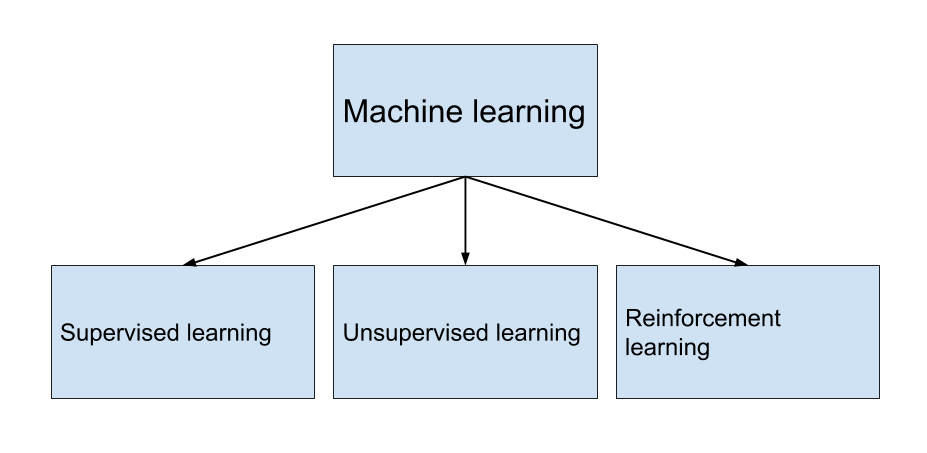
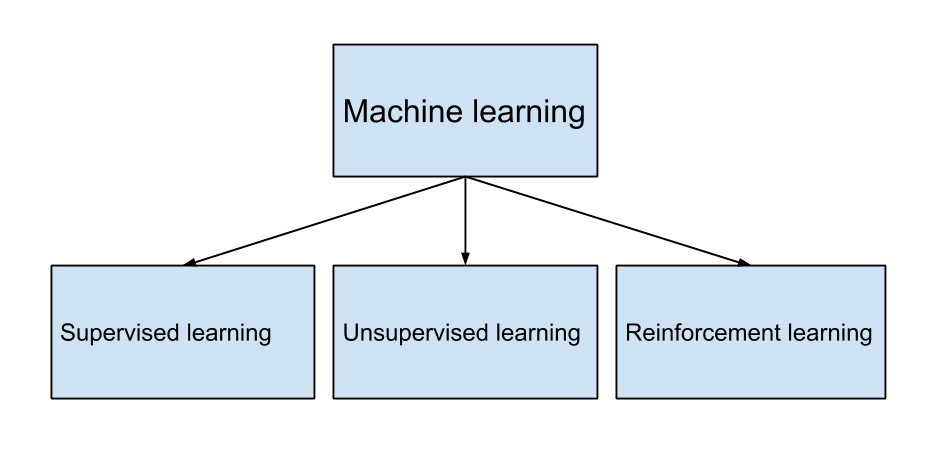
Update on Overleaf.

diff --git a/chapters/implementation.tex b/chapters/implementation.tex
@@ -10,16 +10,19 @@
 \usepackage{csquotes}
 \usepackage{amsmath}
 \usepackage{amssymb}
+\usepackage{makecell}
+
 
 \usepackage{float}
 
 
 \begin{document}
-\section{Programming software}
-Python is the programming language used for this solving this task. Python is an open-source software that has several packages for machine learning and power flow calculations \cite{python_web}. In this thesis, \textit{pandapower} is the python package used for defining an electric power system and preforming power flow calculations \cite{pandapower}. \textit{Keras} is the Python package used for training a reinforcement agent \cite{keras_chollet2015}.
+
+This chapter will introduce the Python libraries \texttt{gym}, \texttt{stable-baselines} and \texttt{pandapower} that are used for setting up the reinforcement learning algorithm and solving the power flow equations. Also, the class \texttt{ActiveEnv} developed for this thesis is presented. 
+
 
 \section{Pandapower}
-The central goal in this thesis is to keep values for current and voltage in an electrical power system within safety margins. It is therefore necessary to have a way to solve the power flow equations (\eqref{eq:theory:power_flow_equation}) and use the results to see if safety margins are violated. The tool for solving the power flow equation in this thesis is the Python package \textit{pandapower} \cite{pandapower}. They describe themselves in the following way:
+The central goal in this thesis is to keep values for current and voltage in an electrical power system within safety margins. It is therefore necessary to have a way to solve the power flow equations (\eqref{eq:theory:power_flow_equation}) and use the results to see if safety margins are violated. The tool for solving the power flow equation in this thesis is the Python package \texttt{pandapower} \cite{pandapower}. They describe themselves in the following way:
 
 \begin{displayquote}
 "pandapower builds on the data analysis library pandas and the power system analysis toolbox PYPOWER to create an easy to use network calculation program aimed at automation of analysis and optimization in power systems. What started as a convenience wrapper around PYPOWER has evolved into a stand-alone power systems analysis toolbox with extensive power system model library, an improved power flow solver and many other power systems analysis functions." \cite{pandapower_website}
@@ -30,10 +33,10 @@ Pandapower is a time independent simulation tool that finds steady state solutio
 This section will describe the different electrical elements available in pandapower and how they are physically modelled. In addition, it is shown how to take actions in the power system using the API of pandapower. It should be noted that this thesis uses version 1.6.1 of pandapower, which have some differences compared to the 2.0.1 version available at the current time of writing. For instance, the base power unit in the 1.6.1 is kilowatts, while it for the 2.0.1 is megawatts.
 
 \subsection*{Lines}
-A line element can be added and connected between two buses by using the \texttt{pandapower.create\_line} method. Pandapower offers many standard types lines for both underground cables and overhead transmission lines. Alternatively a line with costume parameters for impedance, line length, line diameter etc. can be specified with the method \texttt{pandapower.create\_line\_from\_parameters}. The lines are modelled using the $\pi$-equivalent model, described in section \ref{section:pi_model}.
+A line element can be added and connected between two buses by using the \texttt{pandapower.create\_line} method. Pandapower offers many standard types lines for both underground cables and overhead transmission lines. Alternatively a line with custom parameters for impedance, line length, line diameter etc. can be specified with the method \texttt{pandapower.create\_line\_from\_parameters}. The lines are modelled using the $\pi$-equivalent model, described in section \ref{section:pi_model}.
 
 \subsection*{Generators}
-Pandapower has two generator types. The first type is simply called generator and is modelled as a PV-bus. In other words, the active power production $P$ and voltage magnitude $|U|$ are known when solving the power flow equations. Generators can be created using the method \texttt{pandapower.create\_gen}, where nominal values for apparent power and voltage can be specified. The second type is the static generator, where the active power $P$ and reactive power $Q$ is specified (PQ-bus). Static generators are created using \texttt{pandapower.create\_sgen}. Pandapower models power from the consumer perspective, so negative values for active power $P$ corresponds to generation of power.
+Pandapower has two generator types. The first type is simply called generator and is modelled as a PV-bus. In other words, the active power production $P$ and voltage magnitude $|U|$ are known when solving the power flow equations. Generators can be created using the method \texttt{pandapower.create\_gen}, where nominal values for apparent power and voltage can be specified. The second type is the static generator, where the active power $P$ and reactive power $Q$ is specified (PQ-bus). Static generators are created using \texttt{pandapower.create\_sgen}. Pandapower models power from the consumer perspective, so negative values for active power $P$ and reactive power $Q$ correspond to generation of power.
 
 \subsection*{Loads}
 The load in pandapower is modelled as a PQ-bus, where active and reactive power are known. Loads are created using the method \texttt{pandapower.create\_load}. The loads can also be modelled with constant impedance $Z$, current $I$ and $P$. In other words, replacing reactive power with current and impedance.
@@ -72,13 +75,13 @@ All of the components will have a result table after the power flow calculation 
 \end{figure}
 
 \subsection{Plotting results}
-It is important to be able to inspect the resulting state after a reinforcement agent performs an action on the system. This can be complicated for large network with many buses and lines that each have a voltage magnitude, voltage angle and so on. Fortunately, pandapower has support for plotting both grid architecture and results from the power flow. It is possible to get static plots using matplotlib and interactive plots using plotly \cite{plotly}. Figure \ref{fig:method:oberrhein_grid_results_plotly} shows the interactive results from a power flow calculation performed on the Oberrhein power grid using plotly. The lines are coloured based on the line loading (100\% means maximum current), while the buses are coloured based on the voltage magnitude. Such plots help to get a overview of the grid and quickly identify critical areas in the transmission system. It is possible to zoom into the net since the plot is interactive, and by clicking on a line or bus you can see the values for voltage, current and power. The lines and buses are colour coded according to line capacity used and voltage magnitudes respectively. This can be used to quickly identify critical areas in the grid.
+It is important to be able to inspect the resulting state after a reinforcement agent performs an action on the system. This can be complicated for large network with many buses and lines that each have a voltage magnitude, voltage angle and so on. Fortunately, pandapower has support for plotting both grid architecture and results from the power flow. It is possible to get static plots using matplotlib and interactive plots using plotly \cite{plotly}. Figure \ref{fig:method:oberrhein_grid_results_plotly} shows the interactive results from a power flow calculation performed on the Oberrhein power grid using plotly. The lines are coloured based on the line loading (100\% means maximum current), while the buses are coloured based on the voltage magnitude. Such plots help to get a overview of the grid and quickly identify critical areas in the transmission system. It is possible to zoom into the net since the plot is interactive, and by clicking on a line or bus you can see the values for voltage, current and power.
 
 
 \begin{figure}[H]
     \center
     \includegraphics[height=15cm, width=12cm]{figures/results_pp_oberrhein.png}
-    \caption[size = 9]{Interactive plot of the results from a power flow calculation on the Oberrhein case power grid using plotly. The grid consist of 179 lines and 180 buses}
+    \caption[size = 9]{Interactive plot of the results from a power flow calculation on the Oberrhein case power grid using plotly. The grid consists of 179 lines and 180 buses}
     \label{fig:method:oberrhein_grid_results_plotly}
 \end{figure}
 
@@ -105,10 +108,45 @@ Transformers in a transmission system can have controllable taps that change the
     \label{fig:method:control_transformer}
 \end{figure}
 
-\section{Gym}
-The Python toolkit \texttt{gym} is developed by OpenAI and can be used to create reinforcement learning environments and comparing algorithms \cite{openai_gym}. It comes with thousands of predefined environments of classical video games and control theory tasks such as the cartpole, swinging pendulum etc. In addition, it is possible to construct own environments that easily can be used in reinforcement algorithms. OpenAI also has a toolkit called \texttt{baselines} with implementations of many reinforcements algorithm that can interact with \texttt{gym} environments \cite{openai_baselines}. However, the \texttt{baselines} library is currently lacking a unified code structure between the algorithms and generally have poor documentation. As a result, a fork called \texttt{stable-baseline} has been created by the AI community, that offers a major cleanup of the code, with a scikit-learn like interface \cite{stable_baselines}.
+\section{Gym, stable-baselines and ActiveEnv}
+The Python library \texttt{gym} is a toolkit used for managing environments in a reinforcement learning algorithm \cite{openai_gym}. It is developed by OpenAI and includes thousands of predefined environments of classical video games and control theory tasks such as the cartpole, swinging pendulum etc. In addition, it is possible to construct own environments that easily can be used in reinforcement algorithms. OpenAI also has a toolkit called \texttt{baselines} with implementations of many reinforcements algorithm that can interact with \texttt{gym} environments \cite{openai_baselines}. However, the \texttt{baselines} library is currently lacking a unified code structure between the algorithms and generally have poor documentation. As a result, a fork called \texttt{stable-baseline} has been created by the AI community, that offers a major cleanup of the code, with a scikit-learn like interface \cite{stable_baselines}.
 
 The implementation of the reinforcement algorithm in this thesis is done by using \texttt{gym} and \texttt{stable-baselines}. Specifically, an environment class called \texttt{ActiveEnv} is implemented, that follows the standard \texttt{gym} environment structure. The main job \texttt{ActiveEnv} is to take in an action chosen by a reinforcement algorithm, perform that action, find the consequent state resulting from that action, and calculate the reward. Specifically, \texttt{ActiveEnv} receives an action vector $a$ where each component determines the percentage change in power consumption at each flexible load. First the consumption and production of power at nodes in the net are changed according to the demand forecast and solar forecast, respectively. The action vector is then processed and updates the power production at each load in the \texttt{pandapower} net. The power flow equations for the network are then solved using \texttt{pandapower}. Once the power flow equation have been solved, and the new voltage and current magnitudes in the net are determined, the reward can be calculated. This summarises the steps involved with one action in the reinforcement algorithm. A more detailed description can be found in \ref{section:problem_description}.   
+
+There are many possible ways of constructing the reward function and state space, as discussed in \ref{chap:prob_description}. The \texttt{ActiveEnv} has a set parameter method that can be to specify the setup of the reinforcement learning algorithm, in addition to several parameters. Table \ref{table:implementation:param_description} gives a description of all the parameters together with their default values.  
+
+
+{
+\renewcommand{\arraystretch}{1.5}
+\begin{table}[ht]
+\center
+\begin{tabular}{lll}
+Parameter name     & Value                                                & Description                                                  \\
+\hline
+activation\_weight & 0.0001                                               & Weigh factor for activation cost                             \\
+current\_weight    & 0.01                                                 & Weight factor for current cost                               \\
+demand\_scale      & 10                                                   & Scale factor for power demand                                \\
+demand\_std        & 0                                                    & \makecell[l]{Standard deviation as a ratio of \\ forecasted demand}           \\
+episode\_length    & 200                                                  & \makecell[l]{Number of steps (hours) before the \\ environment resets}        \\
+flexibility        & 0.1                                                  & \makecell[l]{Quantity describing  max demand change \\ at a load}              \\
+forecast\_horizon  & 4                                                    & Number of hours in the forecasts                             \\
+i\_upper           & 90                                                   & \makecell[l]{Upper current limit as percetange of \\line capcity}            \\
+imbalance\_weight  & 0.0001                                               & Weight factor for imbalance cost                             \\
+reactive\_power    & True                                                 & \makecell[l]{Determines if reactive power is \\ modified by the action}       \\
+reward\_terms      & \makecell[l]{{[}’voltage’, ’current’,\\ ’imbalance’,’activation’{]}} & Terms to include in the reward function                      \\
+solar\_scale       & 0.8                                                  & Scale factor for solar irradiance                            \\
+solar\_std         & 0                                                    & \makecell[l]{Standard deviation as a ratio \\ of forecasted solar irradiance} \\
+state\_space       & {[}’sun’, ’demand’, ’imbalance’{]}                   & State spaces to be included in the model                     \\
+total\_imbalance   & False                                                & \makecell[l]{Calculates total demand imbalance \\ in the system if True}      \\
+v\_lower           & 0.95                                                 & Lower voltage margin                                         \\
+v\_upper           & 1.05                                                 & Upper voltage margin                                         \\
+voltage\_weight    & 1                                                    & Weight factor for voltage cost                              \\
+\hline
+\end{tabular}
+\caption{Description of parameters that determine the setup of the \texttt{ActiveEnv} environment}
+\label{table:implementation:param_description}
+\end{table}
+}
 
 
 

diff --git a/chapters/problem_description.tex b/chapters/problem_description.tex
@@ -43,16 +43,19 @@ ratio of the demand decreases, less peaking plants need to be operated.
 
 
 
-Demand response can be categorised into two main programs: Price-Based Programs and Incentive-Based Programs (IBP) \cite{demand_response_definition}. This thesis will investigate the latter program (IBS) by directly controlling the loads around in the grid. There are several published papers that uses reinforcement learning to achieve demand response \cite{active_network_management}. Typically they try to control individual thermostatic loads, such as heat pumps and electric water heaters, in a categorical on-off setting. The scope of this thesis is not to control individual power consuming units, but to continually control the absolute load at different buses in a power grid, given some flexibility at that bus. It might seem strange to use continuous control since power consuming units generally can not be set to an arbitrary power level. The nature of power component are binary: they either consume power or they do not consume power. Consequently, a valid question is whether a continuous control setup even is realisable in a real power system. Although individual power consuming units are binary, a large collection of units connected to a bus can be approximated as continuous. Imagine a 1000 households connected to a bus and that each household has several power consuming components that can be controlled, such as electric vehicles, water heater and heat pumps. Assuming these units have some flexibility in terms of consumption, it is possible to control all these devices in such a way that they appear continuous at the bus. This thesis will assume that a system for turning on and off the individual power consumers already exist, so the centralised agent can consider the loads continuous in some interval of flexibility. This assumption can be said to be unrealistic, but the scope of this thesis is to test continuous demand control at buses experimentally, under some ideal assumptions. The advantage of this setup is that the action space of the algorithm is dramatically reduced, as there is only one action per bus in the grid. Controlling individual components in a power grid quickly gives a very large and impractical action space. The set of possible actions doubles for every additional control device, and exponential growth is hard to tackle, even for modern computers.
+Demand response can be categorised into two main programs: Price-Based Programs and Incentive-Based Programs (IBP) \cite{demand_response_definition}. This thesis will investigate the latter program (IBS) by directly controlling the loads around in the grid. There are several published papers that uses reinforcement learning to achieve demand response \cite{active_network_management}. Typically they try to control individual thermostatic loads, such as heat pumps and electric water heaters, in a categorical on-off setting. The scope of this thesis is not to control individual power consuming units, but to continually control the absolute load at different buses in a power grid, given some flexibility at that bus. It might seem strange to use continuous control since power consuming units generally can not be set to an arbitrary power level. The nature of a power component is binary: it either consumes power or it does not consume power. Consequently, a valid question is whether a continuous control setup even is realisable in a real power system. Although individual power consuming units are binary, a large collection of units connected to a bus can be approximated as continuous. Imagine 1000 households connected to a bus and that each household has several power consuming components that can be controlled, such as electric vehicles, water heater and heat pumps. Assuming these units have some flexibility in terms of consumption, it is possible to control all these devices in such a way that they appear continuous at the bus. This thesis will assume that a system for turning on and off the individual power consumers already exist, so the centralised agent can consider the loads continuous in some interval of flexibility. This assumption can be said to be unrealistic, but the scope of this thesis is to test continuous demand control at buses experimentally, under some ideal assumptions. The advantage of this setup is that the action space of the algorithm is dramatically reduced, as there is only one action per bus in the grid. Controlling individual components in a power grid quickly gives a very large and impractical action space. The set of possible actions doubles for every additional control device, and exponential growth is hard to tackle, even for modern computers.
 
-The specific setup in this thesis is based on several assumptions for a hypothetical future power grid. The electrical power grid used is constructed by the International Council on Large Electric Systems (CIGRE) as a benchmark network that can be used for analysis of DER integration \cite{cigre}. The network is predefined in pandapower and can be defined with different renewable energy sources connected at different buses. The grid used is visualised in figure \ref{fig:problem:cigre_network}. 
+The specific setup in this thesis is based on several assumptions for a hypothetical future power grid. The electrical power grid used is constructed by the International Council on Large Electric Systems (CIGRE) as a benchmark network that can be used for analysis of DER integration \cite{cigre}. The network is predefined in \texttt{pandapower}, the Python module used for power flow calculations, and can be defined with different renewable energy sources connected at different buses. The grid used is visualised in figure \ref{fig:problem:cigre_network}. 
 
 \begin{figure}[ht]
+    \center
     \includegraphics[height=14cm, width=13.5cm]{figures/cigre_network_mv_der.png}
-    \caption[size = 9]{CIGRE network with solar and wind power that is used in the reinforcement learning algorithm}
+    \caption[size = 9]{CIGRE network with solar and wind power that is used in the reinforcement learning algorithm \cite{cigre}}
     \label{fig:problem:cigre_network}
 \end{figure}
-The left-most feeder has several solar producing units connected and wind power connected to bus 7. The time resolution in this task is chosen to be hourly. In other words, the demand and solar production at every bus is updated every hour, and assumed constant in between hours. The demand profile is generated using \textit{enlopy}, a python toolkit for energy demand time series \cite{enlopy}. The demand signal is generated based on data of the energy consumption of private households.
+
+
+The left-most feeder has several solar producing units connected and wind power connected to bus 7. From a power flow perspective, there is no difference between a wind farm (without voltage regulation) and solar production. They are both modelled as static generators (PQ-node). For simplicity, the wind farm connected at bus 7 is assumed to be solar in this thesis, i.e its power production follows the sun profile through the day. The time resolution in this task is chosen to be hourly. In other words, the demand and solar production at every bus is updated every hour, and assumed constant in between hours. The demand profile is generated using \textit{enlopy}, a python toolkit for energy demand time series \cite{enlopy}. The demand signal is generated based on data of the energy consumption of private households.
 
 A data set with satellite-derived solar irradiance in central Norway is used as input to define the production of solar power \cite{solar_data}. Figure \ref{fig:problem:solar_data} plots a time series of the solar irradiance, and a couple of example days. The solar data is scaled so the maximum value is 1.
 
@@ -65,7 +68,7 @@ A data set with satellite-derived solar irradiance in central Norway is used as 
 
 
 
-The signal of solar production and power demand is assumed equal at all buses and scaled up based on nominal values of the loads at each bus. This reduces the state space, as there is no need for a unique demand forecast for all the loads.  For simplicity, the power factor is assumed constant at every bus, meaning the reactive power at each load is a percentage of the active power at all times. The power factor at each load is the same as the default values in the CIGRE network. The values of the solar production are intentionally amplified so that the safety margins for line current and voltage magnitudes in the grid frequently are violated if no actions are taken.  
+The signal of solar production and power demand is assumed equal at all buses and scaled up based on nominal values of the loads at each bus. This reduces the state space, as there is no need for a unique demand forecast for all the loads.  For simplicity, the power factor is assumed constant at every bus, meaning the reactive power at each load is a percentage of the active power at all times. The power factor at each load is the same as the default values in the CIGRE network. The values of the solar production are intentionally amplified so that the safety margins for line current and voltage magnitudes in the grid frequently are violated if no actions are taken. The solar producing units do not output any reactive power, only active power. 
 
 All loads have an hourly forecast of energy consumption that is used to update the active and reactive powers at every time step. It is assumed that the loads at all buses have some flexibility, say 10 \% of the actual demand, that can be centrally controlled at every hour.
 
@@ -179,14 +182,17 @@ where $a_{i} \in [-1,1]$ is the activation at flexible load $i$ in the power gri
     P_{i}& \leftarrow P_{i} + \Delta P_{i}
     \end{aligned} 
 \end{equation}
-where $f_{i}$ is the flexibility at load, $P_{i}$ is the active power demand and $P_{i,forecast}$ is the forecasted power demand. 
+where $f_{i}$ is the flexibility at load, $P_{i}$ is the active power demand and $P_{i,forecast}$ is the forecasted power demand. The resulting reactive power demand is found by multiplying the active power with a load constant, because the loads are assumed to have a constant power factor.
 
 It is possible to include more control variables that the agent can control. For instance, the reinforcement agent could control the tap position of the transformer and the switches in the system. There is also a CIGRE benchmark network in pandapower that has storage units in the power net. A possible extension is to let the agent control the charging and discharging of storage units.
 
 \section{Reward function}\label{section:reward}
-A central element in any reinforcement algorithm is the reward function. The reward function should give a signal that is used to reinforce "good" behaviour. The goal of the agent is to not violate safety margins for voltage and current in the power grid. Gemine et al formulate a reward function aimed to safely operate a power grid at a low cost, where they punish the agent proportionally to the violation of safety margins \cite{active_network_management}. There are multiple cost terms that can be included, and this section will present several of these. 
+A central element in any reinforcement algorithm is the reward function. The terms \textit{cost} and \textit{reward} are used interchangeably in this thesis. In all cases the reward is the negative of the cost. By this definition, maximising the reward is the same as minimising the cost. 
 
-There are safety margins in terms of voltage magnitudes in the power system. In the Norwegian power system this is between 0.95 and 1.05. In other word, Statnett tolerates a 5 \% deviation from nominal voltage in each direction. Let $C_{voltage,i}$ be the cost for violating voltage margins at bus $i$
+The reward function should give a signal that is used to reinforce "good" behaviour. The goal of the agent is avoid violations of safety margins for voltage and current in the power grid. Gemine et al. formulate a reward function aimed to safely operate a power grid at a low cost, where they punish the agent proportionally to the violation of safety margins \cite{active_network_management}. There are multiple cost terms that can be included, and this section will present several of these. 
+
+There are safety margins in terms of voltage magnitudes in an electric transmission system. 
+This thesis will assume a symmetric safety region around nominal voltage values, for instance 0.95 and 1.05. In other word, the system tolerates a 5 \% deviation from nominal voltage in each direction. Let $C_{voltage,i}$ be the cost for violating voltage margins at bus $i$
 
 
 \begin{equation}
@@ -195,7 +201,7 @@ There are safety margins in terms of voltage magnitudes in the power system. In 
     C_{voltage,i} = \max(0,|V_{i}| - V_{upper}) + \max(0,V_{lower}- |V_{i}|)
     \end{aligned} 
 \end{equation}
-where $V_{upper}$ and $V_{lower}$ are the upper and lower per-unit voltage limit respectively. The voltage cost for a node in the grid is visualised in figure \ref{fig:problem:voltage_cost}.
+where $V_{upper}$ and $V_{lower}$ are the upper and lower per-unit voltage limit respectively. The voltage cost for a node in the grid with a safety margin of +/- 5 \%  is visualised in figure \ref{fig:problem:voltage_cost}.
 \begin{figure}[ht]
     \center
 \includegraphics[height=8cm, width=12cm]{figures/voltage_cost.png}
@@ -328,7 +334,7 @@ Set global solar irradiance $r$ based on forecasted solar irradiance $r_{forecas
 \end{equation}
 
 \For{Static generator 1:S}{
- update solar production $P_{sun}$ based on nominal value $S_{N}$
+ Update solar production $P_{sun}$ based on nominal value $S_{N}$
 \begin{equation}
    \begin{aligned}\label{eq:problem:set_solar}
   P_{sun} = r S_{N}
@@ -347,7 +353,7 @@ Set global solar irradiance $r$ based on forecasted solar irradiance $r_{forecas
 
 
 \For{Flexible load 1:F}{
-Update power demand $P$ based on the agent's action $a$ and flexibility f
+Update power demand $P$ based on the agent's action $a$ and flexibility $f$
 \begin{equation}
    \begin{aligned}
    \label{eq:problem:update_demand_algorithm}

diff --git a/chapters/state_of_the_art.tex b/chapters/state_of_the_art.tex
@@ -32,7 +32,7 @@ In 2015, Mnih et al. tested DQN on more atari games, and outperformed 43 of the 
 Although DQN was a great improvement compared to existing methods, it is not able to tackle tasks with a continuous action space. A self-driving car must not only decide to turn left or right, but it must determine the exact turn angle of the wheel. A possible solution is to discretise the action space, for instance by dividing the possible wheel angles into 5 possible categories: $[-90^{o},-45^{o},0^{o},45^{o},90^{o}]$. This is realisable for tasks consisting of few independent action variables, albeit the steering would be very abrupt, but the action space grows exponentially with the number of variables. For instance, imagine a reinforcement task with 10 independent action variables that all should be discretised into 5 categories. The resulting action space is finite, but has a size of $5^{10} \approx 10, 000,000$. The consequence is that the final layer in the neural network in the DQN algorithm must consists of 10 million neurons, which all would have a parameter for all of the neurons in the previous layer, in addition to a bias. The number of parameters in the neural network would easily surpass 1 billion. Therefore, a better approach is to use policy gradient methods that are well suited for giving a continuous action. 
 
 
-in 2016, Lillicrap et al. presented the deep deterministic policy gradient (DDPG) as an continuous extension of the DQN algorithm  \cite{DBLP:journals/corr/LillicrapHPHETS15}. DDPG is an actor-critic model that builds on the deterministic policy gradient methods presented by Silver at. el in 2014, where it was shown that deterministic policy methods were better than stochastic methods, especially in tasks with a large action space \cite{pmlr-v32-silver14}. The extension made by Lillicrap et al. was to use a neural network, as in DQN, as function approximators. Specifically, they parametrise both the policy (actor) and action-value function (critic) by neural networks. DDPG also use the replay buffer to ensure uncorrelated samples during parameter updates. They use a separate target network for both the actor and the critic, in a similar fashion to DQN where target values parameters only are periodically updated. DDPG was tested on 33 physics tasks with continuous actions, such as the cartpole and pendulum  environment. They trained both on low-dimensional input data, such as angle velocities, acceleration etc, and also using raw pixels from rendering of the environment. DDPG performed well on most of the tasks, and was able to beat a model-based planning algorithm (iLQG) on several occasions, not only using low-dimensional features, but also using raw pixels as input \cite{DBLP:journals/corr/LillicrapHPHETS15}.
+In 2016, Lillicrap et al. presented the deep deterministic policy gradient (DDPG) as an continuous extension of the DQN algorithm  \cite{DBLP:journals/corr/LillicrapHPHETS15}. DDPG is an actor-critic model that builds on the deterministic policy gradient methods presented by Silver at. el in 2014, where it was shown that deterministic policy methods were better than stochastic methods, especially in tasks with a large action space \cite{pmlr-v32-silver14}. The extension made by Lillicrap et al. was to use a neural network, as in DQN, as function approximators. Specifically, they parametrise both the policy (actor) and action-value function (critic) by neural networks. DDPG also use the replay buffer to ensure uncorrelated samples during parameter updates. They use a separate target network for both the actor and the critic, in a similar fashion to DQN where target values parameters only are periodically updated. DDPG was tested on 33 physics tasks with continuous actions, such as the cartpole and pendulum  environment. They trained both on low-dimensional input data, such as angle velocities, acceleration etc, and also using raw pixels from rendering of the environment. DDPG performed well on most of the tasks, and was able to beat a model-based planning algorithm (iLQG) on several occasions, not only using low-dimensional features, but also using raw pixels as input \cite{DBLP:journals/corr/LillicrapHPHETS15}.
 
 The success of neural networks as function approximators continued in 2016 with AlphaGo (Silver et al.), a reinforcement algorithm trained to play the Chinese board game Go \cite{alphago}. Go is a complex game with a large state and action space that computer programs have been struggling to solve for decades. AlphaGo was the first program to beat the current world champion of Go, winning 4 of 5 games against Lee Sedol \cite{Sutton1998}. AlphaGo was not entirely learning from self-play, but was pre-trained using using expert-moves. However, an extention of the method, called AlphaGo Zero, learned entirely from self-play through the use of Monte Carlo tree search and CNN as function approximators. Finally,  Silver et al. introduced AlphaZero, and showed that the same algorithm and neural network architecture could be generalised to learn chess and the Japanese board game Shogi through self-play \cite{alphazero}. AlphaZero was able to beat the current world-record computer programs in all three games, without any domain-specific knowledge or handcrafted features. 
 
@@ -62,7 +62,7 @@ Q-learning               & "Demand response"        & Cooling              & Hou
 \label{table:soa:searchterms}
 \end{table}
 
-The review includes 105 articles in total, mainly from the literature search in Web of Science. The studies have objectives such as minimising energy cost, peak energy and user discomfort. A way of minimising energy cost and peak energy is by shifting the demand to hours of peak solar production, which in turn helps the power system by avoiding voltage and current safety violations. However, the goal of the studies included in Vázquez-Canteli and Nagy's review do not explicitly use the voltages and line current in the reinforcement algorithm in a similar way as this thesis. In contrast, the studies often focuses on the energy system of individual houses or collection of houses. For instance,  Yang et al. focus on controlling a heat pumps, geothermal boreholes and PV modules to minimise a building's energy usage \cite{yang2015reinforcement}.  Dusparic et al. use reinforcement learning to control the charging of electrical vehicles such that the current limit for a transformer is not violated \cite{dusparic2013multi}. The problems are similar, but do not involve the power flow equations as part of the algorithm.
+The review includes 105 articles in total, mainly from the literature search in Web of Science. The studies have objectives such as minimising energy cost, peak energy and user discomfort. A way of minimising energy cost and peak energy is by shifting the demand to hours of peak solar production, which in turn helps the power system by avoiding voltage and current safety violations. However, the goal of the studies included in Vázquez-Canteli and Nagy's review do not explicitly use the voltages and line current in the reinforcement algorithm in a similar way as this thesis. In contrast, the studies often focuses on the energy system of individual houses or collection of houses. For instance,  Yang et al. focus on controlling a heat pumps, geothermal boreholes and PV modules to minimise a building's energy usage \cite{yang2015reinforcement}.  Dusparic et al. use reinforcement learning to control the charging of electrical vehicles such that the current limit for a transformer is not violated \cite{dusparic2013multi}. The problems are similar, but do not involve the power flow equations as part of the algorithm. Vázquez-Canteli and Nagy give recommendation for future work on reinforcement learning and demand response. They propose that more studies should implement state-of-the-art reinforcement learning algorithms, such as DDPG \cite{vazquez2019reinforcement}.   
 
 Gemine et al. have formulated a similar problem as the research question in this thesis, allowing the agent to not only change the consumption in but also to curtail generation of power \cite{active_network_management}.They use tests grids of 5, 33 and 77 buses and the goal is to avoid violations operational limits at a low cost. They include the power flow equations explicitly in the problem, but do not solve the task using a reinforcement learning algorithm, although they formulate the problem as a Markov decision process. The safety margins for current and voltage are taken out of the objective function, and put as constraints into different mathematical programs. In addition, they do not consider continuous actions.
 

diff --git a/chapters/results.tex b/chapters/results.tex
@@ -105,7 +105,9 @@ Imbalance state & 1  & Total energy imbalance for all loads
 \caption{State used in formulation 1}
 \label{table:results:state_formulation1}
 \end{table}
-The DDPG agent was trained for 100 000 time steps. A complete summary with all hyper-parameters used can be found in appendix ??. Figure \ref{fig:results:configuration1} visualises the actions of the trained agent throughout a day (24 hours) together with the solar irradiance. Because the solar power production in the system is very large, the safety margins for current and voltage are frequently violated. The desired behaviour of the agent is therefore to increase consumption in periods with high solar irradiance. This helps the system because the power is not transported out to the grid, but instead is consumed locally, close to production. Simply put, it is desired that the actions follow the curve of the solar irradiance. 
+The DDPG agent was trained for 100 000 time steps. A complete summary with all hyper-parameters used can be found in appendix \ref{section:apendix_config1}. Figure \ref{fig:results:configuration1} visualises the actions of the trained agent throughout a day (24 hours) together with the solar irradiance. Because the solar power production in the system is very large, the safety margins for current and voltage are frequently violated. The desired behaviour of the agent is therefore to increase consumption in periods with high solar irradiance. This helps the system because the power is not transported out to the grid, but instead is consumed locally, close to production. Simply put, it is desired that the actions follow the curve of the solar irradiance. 
+
+
 
 \begin{figure}[ht]
     \center

diff --git a/chapters/appendix.tex b/chapters/appendix.tex
@@ -18,7 +18,7 @@
 %\usepackage[toc,page]{appendix}
 
 \begin{document}
-\section{Configuration 1}
+\section{Configuration 1}\label{section:apendix_config1}
 Table \ref{apendix:config1:params} shows the parameters used in the \texttt{ActiveEnv} class in the simulation of configuration 1
 
 \begin{table}[ht]
@@ -50,7 +50,7 @@ voltage\_weight    & 1                                         \\
 \label{apendix:config1:params}
 \end{table}
 
-The implementation of deep deterministic policy gradient used is \texttt{stable\_baselines.ddpg.ddpg.DDPG}. The agent was trained for 100 000 steps, which took around 1 hour with a 2 core Intel(R) Core(TM) i3-7100U CPU @ 2.40 GHz. The memory limit (size of the experience replay buffer) was also set to 100 000. 
+The used implementation of DDPG is \texttt{stable\_baselines.ddpg.ddpg.DDPG}. The agent was trained for 100 000 steps, which took around 1 hour with a 2 core Intel(R) Core(TM) i3-7100U CPU @ 2.40 GHz. The memory limit (size of the experience replay buffer) was also set to 100 000. The rest of the arguments are the same as the default values. 
 
 The model was trained using the policy \texttt{stable\_baselines.ddpg.policies.LnMlpPolicy}, which is 2 hidden layer architecture with 64 neurons and layer normalisation. The noise added to the deterministic policy is \texttt{stable\_baselines.ddpg.noise.OrnsteinUhlenbeckActionNoise} with mean=0, sigma=0.2, theta=0.15.  
 

diff --git a/main.tex b/main.tex
@@ -11,6 +11,8 @@
 \usepackage[ruled,vlined]{algorithm2e}
 \usepackage{hyperref}
 \usepackage[toc,page]{appendix}
+\usepackage{makecell}
+
 
 
 \usepackage{import}
@@ -38,14 +40,14 @@
     \chapter{Reinforcement learning}
     \import{chapters/}{reinforcement_learning}
     
+    \chapter{Problem Description}\label{chap:prob_description}
+    \import{chapters/}{problem_description}
+    
     \chapter{State of the art}
     \import{chapters/}{state_of_the_art}
     
     \chapter{Implementation}
     \import{chapters/}{implementation}
-    
-    \chapter{Problem Description}
-    \import{chapters/}{problem_description}
     
     
     \chapter{Results}

diff --git a/chapters/reinforcement_learning.tex b/chapters/reinforcement_learning.tex
@@ -31,7 +31,7 @@ Algorithms in machine learning and artificial intelligence are often divided int
 
 \begin{figure}[ht!]
     \center
-    \includegraphics[height=6cm, width=11cm]{figures/supervised_vs_rl.png}
+    \includegraphics[height=6cm, width=12cm]{figures/supervised_vs_rl.png}
     \caption[size = 9]{The three main categories of machine learning: supervised, unsupervised and reinforcement learning}
     \label{fig:theory:supervised_vs_rl}
 \end{figure}
